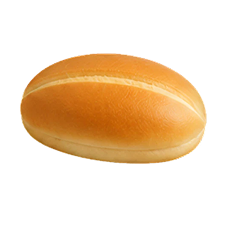
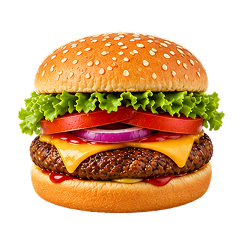
Refine carb resources and calculator UI (#182)
This update refreshes food/resource data and related UI copy to better match current carb guidance. It updates low-carb snack wording, improves spacing and keyboard-safe insets in the insulin calculator onboarding and results screens, tweaks handbook CTA wording/colors, and corrects carb food entries and asset references for more accurate meal tracking.

diff --git a/app/src/main/java/edu/emory/diabetes/education/presentation/fragments/insulinCalculator/screens/MealsHighSugarTotal.kt b/app/src/main/java/edu/emory/diabetes/education/presentation/fragments/insulinCalculator/screens/MealsHighSugarTotal.kt
@@ -678,7 +678,7 @@ fun MealsHighSugarTotal(
                                     infoOnClick = {showCFactorInfo = true}
                                 )
                             }
-                            Spacer(modifier = Modifier.height(114.dp))
+                            Spacer(modifier = Modifier.height(50.dp))
                             if (showNoInsulinNeeded) {
                                 ResultCard(
                                     insulin = "No insulin needed",
@@ -726,7 +726,7 @@ fun MealsHighSugarTotal(
                                     modifier = Modifier
                                         .fillMaxWidth()
                                         .align(Alignment.TopCenter)
-                                        .padding(top = 108.dp),
+                                        .padding(top = 80.dp),
                                     horizontalAlignment = Alignment.CenterHorizontally
                                 ) {
                                     Image(
@@ -742,7 +742,7 @@ fun MealsHighSugarTotal(
                                         modifier = Modifier
                                             .fillMaxWidth()
                                             .background(colorResource(R.color.green_050))
-                                            .padding(start = 20.dp, end = 20.dp, top = 20.dp, bottom = 20.dp)
+                                            .padding(start = 12.dp, end = 12.dp, top = 20.dp, bottom = 20.dp)
                                     ) {
                                         Text(
                                             text = "Total Insulin Dose",
@@ -767,7 +767,7 @@ fun MealsHighSugarTotal(
                                                 .fillMaxWidth()
                                                 .clip(RoundedCornerShape(12.dp))
                                                 .background(Color.White)
-                                                .padding(vertical = 16.dp, horizontal = 12.dp),
+                                                .padding(vertical = 16.dp, horizontal = 8.dp),
                                             horizontalArrangement = Arrangement.Center,
                                             verticalAlignment = Alignment.CenterVertically
                                         ) {
@@ -776,7 +776,7 @@ fun MealsHighSugarTotal(
                                                     text = "Carb Bolus",
                                                     fontSize = 16.sp,
                                                     fontFamily = nunito,
-                                                    fontWeight = FontWeight.W600,
+                                                    fontWeight = FontWeight.SemiBold,
                                                     color = Color.Black
                                                 )
                                                 Spacer(modifier = Modifier.height(4.dp))
@@ -804,7 +804,7 @@ fun MealsHighSugarTotal(
                                                     text = "Correction Bolus",
                                                     fontSize = 16.sp,
                                                     fontFamily = nunito,
-                                                    fontWeight = FontWeight.W600,
+                                                    fontWeight = FontWeight.SemiBold,
                                                     color = Color.Black
                                                 )
                                                 Spacer(modifier = Modifier.height(4.dp))

diff --git a/app/src/main/java/edu/emory/diabetes/education/presentation/fragments/resources/foodResources/CarbFoodData.kt b/app/src/main/java/edu/emory/diabetes/education/presentation/fragments/resources/foodResources/CarbFoodData.kt
@@ -69,7 +69,8 @@ val carbCategories: List<CarbCategory> = listOf(
         chipColor = R.color.category_starchy_veg,
         items = listOf(
             CarbFood("Baked Potato", "1 small potato", 30, R.drawable.im_baked_potato),
-            CarbFood("Fast Food French Fries", "small size", 30, R.drawable.im_mashed_potatoes),
+            CarbFood("Mashed Potato", "1 cup", 15, R.drawable.im_mashed_potatoes),
+            CarbFood("Fast Food French Fries", "small size", 30, R.drawable.im_french_fries),
             CarbFood("Sweet Potato", "1/2 cup", 15, R.drawable.im_sweet_potato),
             CarbFood("Green Peas", "1/2 cup", 15, R.drawable.im_green_peas),
             CarbFood("Corn", "1/2 cup | 1 small corn on cob", 15, R.drawable.im_corn_on_the_cob),
@@ -143,10 +144,10 @@ val carbCategories: List<CarbCategory> = listOf(
             CarbFood("Sausage Biscuit", "1 pc", 25, R.drawable.im_sausage_biscuit),
             CarbFood("Grilled Cheese Sandwich", "1 pc", 30, R.drawable.im_grilled_cheese_sandwich),
             CarbFood("Soup", "1 cup", 15, R.drawable.im_chicken_noodle_soup),
-            CarbFood("Sub Sandwich", "1 pc", 45, R.drawable.im_submarine_sandwich),
+            CarbFood("Sub Sandwich", "6” sub", 45, R.drawable.im_submarine_sandwich),
             CarbFood("Corndog", "1 pc", 25, R.drawable.im_corn_dog),
             CarbFood("Peanut Butter & Jelly Sandwich", "1 pc", 45, R.drawable.im_peanut_butter_jelly_sandwich),
-            CarbFood("Chicken Quesadilla", "1 pc", 30, R.drawable.im_quesadilla),
+            CarbFood("Cheese Quesadilla", "1 pc", 30, R.drawable.im_quesadilla),
             CarbFood("Popcorn Shrimp", "3/4 cup", 25, R.drawable.im_popcorn_shrimp),
         )
     ),
@@ -185,16 +186,16 @@ val carbCategories: List<CarbCategory> = listOf(
         chipImage = R.drawable.im_raw_veggies,
         chipColor = R.color.category_low_carb,
         items = listOf(
-            CarbFood("Raw Veggies", "1 cup", 5, R.drawable.im_raw_veggies),
-            CarbFood("Salad with Dressing", "2 tbsp dressing", 5, R.drawable.im_salad_with_dressing),
+            CarbFood("Raw Veggies", "1 tbsp", 5, R.drawable.im_raw_veggies),
+            CarbFood("Salad with Dressing", "2 tbsp", 5, R.drawable.im_salad_with_dressing),
             CarbFood("Broccoli, Cabbage, Carrots, Celery, Collards, Cucumber, Green Beans, Salad Greens.", "1/2 cup cooked | 1 cup raw", 5, R.drawable.im_mixed_vegetables),
-            CarbFood("Dill Pickles", "2 spears", 5, R.drawable.im_pickles),
-            CarbFood("String Cheese / Eggs / Deli Meats", "1 serving", 5, R.drawable.im_string_cheese_eggs),
-            CarbFood("Nuts", "1 handful", 5, R.drawable.im_mixed_nuts),
-            CarbFood("Sunflower Seeds", "1 handful", 5, R.drawable.im_sunflower_seeds),
-            CarbFood("Sugar-Free Jello", "1 cup", 5, R.drawable.im_jello),
-            CarbFood("Sugar-Free Popsicles", "1 popsicle", 5, R.drawable.im_popsicle),
-            CarbFood("Low-Carb Yogurt", "6 oz", 5, R.drawable.im_low_carb_yogurt)
+            CarbFood("Dill Pickles", "2 tbsp", 5, R.drawable.im_pickles),
+            CarbFood("String Cheese / Eggs / Deli Meats", "1 tbsp", 5, R.drawable.im_string_cheese_eggs),
+            CarbFood("Nuts", "1 tbsp", 5, R.drawable.im_mixed_nuts),
+            CarbFood("Sunflower Seeds", "1 tbsp", 5, R.drawable.im_sunflower_seeds),
+            CarbFood("Sugar-Free Jello", "1 tbsp", 5, R.drawable.im_jello),
+            CarbFood("Sugar-Free Popsicles", "1 tbsp", 5, R.drawable.im_popsicle),
+            CarbFood("Low-Carb Yogurt", "1 tbsp", 5, R.drawable.im_low_carb_yogurt)
         )
     )
 )

diff --git a/app/src/main/java/edu/emory/diabetes/education/presentation/fragments/insulinCalculator/screens/onboarding/CalculatorOnboardingScreen.kt b/app/src/main/java/edu/emory/diabetes/education/presentation/fragments/insulinCalculator/screens/onboarding/CalculatorOnboardingScreen.kt
@@ -14,7 +14,10 @@ import androidx.compose.foundation.layout.fillMaxHeight
 import androidx.compose.foundation.layout.fillMaxSize
 import androidx.compose.foundation.layout.fillMaxWidth
 import androidx.compose.foundation.layout.height
-import androidx.compose.foundation.layout.imePadding
+import androidx.compose.foundation.layout.ime
+import androidx.compose.foundation.layout.navigationBars
+import androidx.compose.foundation.layout.systemBars
+import androidx.compose.foundation.layout.union
 import androidx.compose.foundation.layout.padding
 import androidx.compose.foundation.layout.size
 import androidx.compose.foundation.layout.statusBars
@@ -139,7 +142,7 @@ private fun IntroStep(
         modifier = Modifier
             .fillMaxSize()
             .background(Color.White)
-            .windowInsetsPadding(WindowInsets.statusBars)
+            .windowInsetsPadding(WindowInsets.systemBars)
             .padding(horizontal = 10.dp),
         horizontalAlignment = Alignment.CenterHorizontally,
     ) {
@@ -293,7 +296,7 @@ private fun QuestionStep(
                 .background(Color.White)
                 .padding(horizontal = 24.dp)
                 .padding(top = 28.dp)
-                .imePadding()
+                .windowInsetsPadding(WindowInsets.ime.union(WindowInsets.navigationBars))
         ) {
             Text(
                 text = question,

diff --git a/app/src/main/java/edu/emory/diabetes/education/presentation/fragments/main/HandBook.kt b/app/src/main/java/edu/emory/diabetes/education/presentation/fragments/main/HandBook.kt
@@ -536,7 +536,7 @@ fun KnowYourCarbCard(
                 Spacer(modifier = Modifier.height(8.dp))
 
                 Text(
-                    text = "Get guidance on what to do next",
+                    text = "Search foods to find their carb count",
                     color = Color.White.copy(alpha = 0.9f),
                     fontFamily = nunito,
                     fontSize = 16.sp
@@ -560,7 +560,7 @@ fun KnowYourCarbCard(
                     ) {
                         Text(
                             text = "Search",
-                            color = Color(0xFFC62828),
+                            color = colorResource(R.color.secondary_sunset_orange),
                             fontFamily = nunito,
                             fontWeight = FontWeight.Bold,
                             fontSize = 16.sp
@@ -568,7 +568,7 @@ fun KnowYourCarbCard(
                         Icon(
                             imageVector = Icons.AutoMirrored.Filled.ArrowForward,
                             contentDescription = null,
-                            tint = Color(0xFFC62828),
+                            tint = colorResource(R.color.secondary_sunset_orange),
                             modifier = Modifier
                                 .size(20.dp)
                                 .align(Alignment.CenterVertically)

diff --git a/app/src/main/java/edu/emory/diabetes/education/presentation/fragments/insulinCalculator/screens/HighSugarCalculator.kt b/app/src/main/java/edu/emory/diabetes/education/presentation/fragments/insulinCalculator/screens/HighSugarCalculator.kt
@@ -369,7 +369,7 @@ fun HighSugarCalculator(
                         Column(
                             modifier = Modifier
                                 .fillMaxWidth()
-                                .padding(top = 10.dp),
+                                .padding(top = 20.dp),
                             horizontalAlignment = Alignment.CenterHorizontally
                         ) {
                             CustomTransparentTextButton(

diff --git a/app/src/main/assets/resources/pages/low_carb_snacks.html b/app/src/main/assets/resources/pages/low_carb_snacks.html
@@ -45,7 +45,7 @@
     <div class="uk-container">
       <h3>Low Carb Snacks</h3>
 
-      <h4 class="primary-blue">Snack Ideas</h4>
+      <h4 class="primary-blue">2 Ingredient snacks</h4>
         <div class="snack-item">
           <img src="../images/images/low_carb/cherry_tomato_cheese.png" alt="Cherry Tomato &amp; String Cheese" />
           <div class="snack-text">
